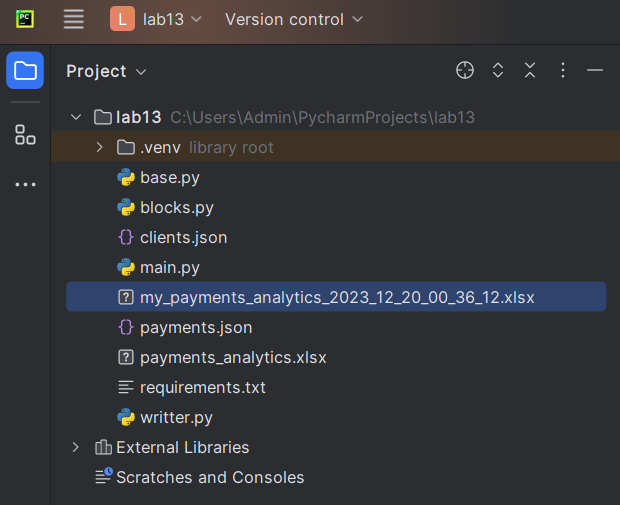
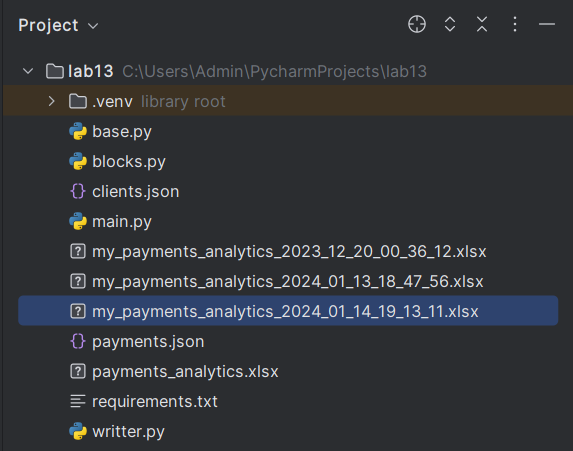
add new lab13

diff --git a/labs/Lab_13_python_oop/solution/blocks.py b/labs/Lab_13_python_oop/solution/blocks.py
@@ -1,76 +1,111 @@
 from base import BaseXlsBlock
 from datetime import datetime
-from collections import defaultdict
+from collections import Counter
 
+format_h1 = {'bold': True, 'font_size': '14', 'border': 2, 'align': 'center',
+             'font_name': 'Arial', 'bg_color': '#fcd5b4'}
+format_h2 = {'bold': True, 'font_size': '10', 'border': 3, 'align': 'center',
+             'font_name': 'Arial', 'bg_color': '#c5d9f1'}
+
+class HeaderBlock(BaseXlsBlock):
+    NAME = 'Параметры запроса'
+    HEADERS = ['Дата выгрузки', 'Период выгрузки']
+
+    def write_header(self):
+        header_format = self.workbook.add_format(format_h1)
+        subheader_format = self.workbook.add_format(format_h2)
+        self.worksheet.write(self.row, self.col, self.NAME, header_format)
+        self.row += 1
+        for idx, name in enumerate(self.HEADERS):
+            self.worksheet.write(self.row, idx, name, subheader_format)
+        self.row += 1
+
+    def write_data(self):
+        subheader_format = self.workbook.add_format(format_h2)
+        maxDate, minDate = datetime(1, 1, 1), datetime(3000, 12, 31)
+        self.worksheet.write(self.row, 0, datetime.now().strftime('%Y-%m-%d'), subheader_format)
+        for payData in self.data['payments']:
+            maxDate = max(datetime(*list(map(int, payData["created_at"][:10].split('-')))), maxDate)
+            minDate = min(datetime(*list(map(int, payData["created_at"][:10].split('-')))), minDate)
+        self.worksheet.write(self.row, 1, f'{minDate.strftime("%Y-%m-%d")} - {maxDate.strftime("%Y-%m-%d")}',
+                             subheader_format)
 
 class TopPayersBlock(BaseXlsBlock):
-    NAME = "Отчёт по активным клиентам"
+    NAME = 'Отчёт по активным клиентам'
+    HEADERS = ['Топ клиентов', 'Q4 2023', 'Q3 2023', 'Q2 2023', 'Q1 2023', 'Q4 2022']
 
     def write_header(self):
-        self.worksheet.write(self.row, self.col, self.NAME, self.workbook.add_format({'bg_color': 'blue', 'border': 1}))
-        self.worksheet.write(self.row, self.col + 1, "ФИО", self.workbook.add_format({'bg_color': 'blue', 'border': 1}))
-        self.worksheet.write(self.row, self.col + 2, "Общая сумма", self.workbook.add_format({'bg_color': 'blue', 'border': 1}))
-    def write_data(self):
-        self.col += 1
+        header_format = self.workbook.add_format(format_h1)
+        subheader_format = self.workbook.add_format(format_h2)
+        self.worksheet.write(self.row, self.col, self.NAME, header_format)
+        self.row += 1
+        for idx, name in enumerate(self.HEADERS):
+            self.worksheet.write(self.row, idx, name, subheader_format)
         self.row += 1
 
-        clients = self.data['clients']
-        payments = self.data['payments']
-
-        quarterly_payments = defaultdict(lambda: defaultdict(float))
-        for payment in payments:
+    def write_data(self):
+        cell_format = self.workbook.add_format({'font_size': '11', 'align': 'center'})
+        quarters = {
+            'Q4 2023': [],
+            'Q3 2023': [],
+            'Q2 2023': [],
+            'Q1 2023': [],
+            'Q4 2022': [],
+        }
+        for payment in self.data['payments']:
             client_id = payment['client_id']
-            amount = payment['amount']
             created_at = datetime.strptime(payment['created_at'], "%Y-%m-%dT%H:%M:%S.%fZ")
-            quarter = (created_at.month - 1) // 3 + 1
-            quarterly_payments[client_id][quarter] += amount
+            quarter = f'Q{(created_at.month - 1) // 3 + 1} {created_at.year}'
+            quarters[quarter].append(client_id)
 
-        top_payers = []
-        for client_id, quarterly_data in quarterly_payments.items():
-            total_amount = sum(quarterly_data.values())
-            top_payers.append({'client_id': client_id, 'total_amount': total_amount})
-
-        top_payers.sort(key=lambda x: x['total_amount'], reverse=True)
-        top_payers = top_payers[:10]
-
-        for i, payer in enumerate(top_payers, start=1):
-            client_info = next(client for client in clients if client['id'] == payer['client_id'])
-            fio = client_info['fio']
-            self.worksheet.write(self.row + i - 1, self.col, f"{i}. {fio}")
-            self.worksheet.write(self.row + i - 1, self.col + 1, f"{payer['total_amount']}")
-
+        for quarter in quarters.values():
+            self.col += 1
+            most_common = Counter(quarter).most_common()[:10]
+            for idx, most in enumerate(most_common):
+                self.worksheet.write(self.row + idx, self.col,
+                                     f'{idx + 1}. {self.data["clients"][most[0] - 1]["fio"]}', cell_format)
 
 class TopCitiesBlock(BaseXlsBlock):
-    NAME = "География клиентов"
+    NAME = 'География клиентов'
+    HEADERS = ['Статистика распределения', 'Город', 'Кол-во клиентов']
 
     def write_header(self):
-        self.worksheet.write(self.row, self.col, self.NAME, self.workbook.add_format({'bg_color': 'blue', 'border': 1}))
-        self.worksheet.write(self.row, self.col + 1, "Город", self.workbook.add_format({'bg_color': 'blue', 'border': 1}))
-        self.worksheet.write(self.row, self.col + 2, "Количество клиентов", self.workbook.add_format({'bg_color': 'blue', 'border': 1}))
-    def write_data(self):
-        self.col += 1
+        header_format = self.workbook.add_format(format_h1)
+        subheader_format = self.workbook.add_format(format_h2)
+        self.worksheet.write(self.row, self.col, self.NAME, header_format)
+        self.row += 1
+        for idx, name in enumerate(self.HEADERS):
+            self.worksheet.write(self.row, idx, name, subheader_format)
         self.row += 1
 
-        clients = self.data['clients']
-
+    def write_data(self):
+        cell_format = self.workbook.add_format({'font_size': '11', 'align': 'center'})
         city_counts = {}
-        for client in clients:
+        for client in self.data['clients']:
             city = client['city']
             city_counts[city] = city_counts.get(city, 0) + 1
 
-        top_cities = sorted(city_counts.items(), key=lambda x: x[1], reverse=True)[:10]
+        popular_cities = sorted(city_counts.items(), key=lambda x: x[1], reverse=True)[:10]
 
-        for i, (city, count) in enumerate(top_cities, start=1):
-            self.worksheet.write(self.row + i - 1, self.col, f"{i}. {city}")
-            self.worksheet.write(self.row + i - 1, self.col + 1, f"{count}")
-
+        idx = 0
+        for city, count in popular_cities:
+            self.worksheet.write(self.row + idx, 1, f'{idx + 1}. {city}', cell_format)
+            self.worksheet.write(self.row + idx, 2, count, cell_format)
+            idx += 1
 
 class AccountStatusBlock(BaseXlsBlock):
-    NAME = "Анализ состояния счёта"
+    NAME = 'Анализ состояния счёта'
+    HEADERS = ['статистика состояния счета', 'Клиенты', 'Состояние счета']
+
     def write_header(self):
-        self.worksheet.write(self.row, self.col, self.NAME, self.workbook.add_format({'bg_color': 'blue', 'border': 1}))
-        self.worksheet.write(self.row, self.col + 1, "ФИО", self.workbook.add_format({'bg_color': 'blue', 'border': 1}))
-        self.worksheet.write(self.row, self.col + 2, "Баланс", self.workbook.add_format({'bg_color': 'blue', 'border': 1}))
+        header_format = self.workbook.add_format(format_h1)
+        subheader_format = self.workbook.add_format(format_h2)
+        self.worksheet.write(self.row, self.col, self.NAME, header_format)
+        self.row += 1
+        for idx, name in enumerate(self.HEADERS):
+            self.worksheet.write(self.row, idx, name, subheader_format)
+        self.row += 1
+
     def write_data(self):
         self.col += 1
         self.row += 1

diff --git a/labs/Lab_13_python_oop/solution/writter.py b/labs/Lab_13_python_oop/solution/writter.py
@@ -1,10 +1,9 @@
 import xlsxwriter
-from datetime import datetime
-from base import BaseXlsBlock
-from blocks import TopPayersBlock, TopCitiesBlock, AccountStatusBlock
+from blocks import TopPayersBlock, TopCitiesBlock, AccountStatusBlock, HeaderBlock
 
 class XlsAnalyticPaymentWriter:
     ANALYTICS_BLOCKS_CLASSES = [
+        HeaderBlock,
         TopPayersBlock,
         TopCitiesBlock,
         AccountStatusBlock
@@ -15,15 +14,18 @@ class XlsAnalyticPaymentWriter:
 
     def write_excel_report(self, output_file):
         workbook = xlsxwriter.Workbook(output_file)
-        worksheet = workbook.add_worksheet()
+        worksheet = workbook.add_worksheet('analytics')
+        worksheet.set_column(0, 0, 40)
+        worksheet.set_column(1, 5, 40)
         row = 0
         col = 0
 
-        for i in range(0, len(self.ANALYTICS_BLOCKS_CLASSES)):
-            worksheet.set_column(i, i, 30)
-            block_instance = self.ANALYTICS_BLOCKS_CLASSES[i](worksheet, workbook, row, col, self.data)
+        for block_class in self.ANALYTICS_BLOCKS_CLASSES:
+            block_instance = block_class(worksheet, workbook, row, col, self.data)
             block_instance.write_header()
             block_instance.write_data()
-            row += 12
+            if row == 0:
+                row -= 9
+            row += 14
 
         workbook.close()

diff --git a/labs/Lab_13_python_oop/solution/main.py b/labs/Lab_13_python_oop/solution/main.py
@@ -4,11 +4,7 @@ import os
 from writter import XlsAnalyticPaymentWriter
 
 def load_data(file_path):
-    full_path = os.path.join(
-        "C:\\Users\\Admin\\PycharmProjects\\lab13",
-        file_path
-    )
-
+    full_path = os.path.join(os.path.dirname(__file__), file_path)
     with open(full_path, 'r', encoding='utf-8') as file:
         data = json.load(file)
     return data
@@ -18,11 +14,8 @@ if __name__ == '__main__':
     data_payments = load_data('payments.json')
 
     data = {'clients': data_clients['clients'], 'payments': data_payments['payments']}
-
-    timestamp = datetime.now().strftime('%Y_%m_%d_%H_%M_%S')
-    output_file = f'my_payments_analytics_{timestamp}.xlsx'
-
-    xls_writer = XlsAnalyticPaymentWriter(data)
-    xls_writer.write_excel_report(output_file)
+    output_file = f'my_payments_analytics_{datetime.now().strftime('%Y_%m_%d_%H_%M_%S')}.xlsx'
+    output = XlsAnalyticPaymentWriter(data)
+    output.write_excel_report(output_file)
 
     print(f"Report generated successfully. Output file: {output_file}")

diff --git a/labs/Lab_13_python_oop/solution/base.py b/labs/Lab_13_python_oop/solution/base.py
@@ -1,12 +1,15 @@
 from abc import ABC, abstractmethod
-
 class BaseXlsBlock(ABC):
-    def __init__(self, worksheet, workbook, row, col, data):
+    NAME = 'Block'
+    HEADERS = []
+
+    def __init__(self, worksheet, workbook, row, col, data={}):
         self.worksheet = worksheet
         self.workbook = workbook
         self.row = row
         self.col = col
         self.data = data
+
     @abstractmethod
     def write_header(self):
         pass
